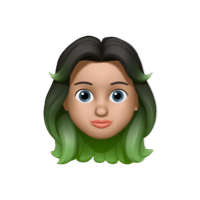
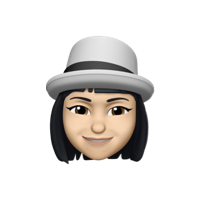
update 4 files and delete 8 files

Changed region(s): [[0.21, 0.15, 0.81, 0.84]]

diff --git a/src/app/home/Reviews.tsx b/src/app/home/Reviews.tsx
@@ -21,7 +21,8 @@ function ReviewComponent({ reviews }: Props) {
       <div className="grid grid-cols-1 sm:grid-cols-2 lg:grid-cols-3 xl:grid-cols-3 mx-auto xl:w-[950px] gap-6 my-4 sm:my-8">
         {reviews.map((review, index) => {
           const randomImageIndex = index + 1;
-          const imagePath = `/assets/Memoji/male/Memoji-${randomImageIndex}.png`;
+          const user = index % 2 ? "male" : "female";
+          const imagePath = `/assets/Memoji/${user}/Memoji-${randomImageIndex}.png`;
           return (
             <div
               className={`w-full md:max-w-[360px] p-5 sm:p-6 rounded-lg border dark:border-neutral-700 flex-shrink-0 dark:text-white text-black hover:border-black`}
